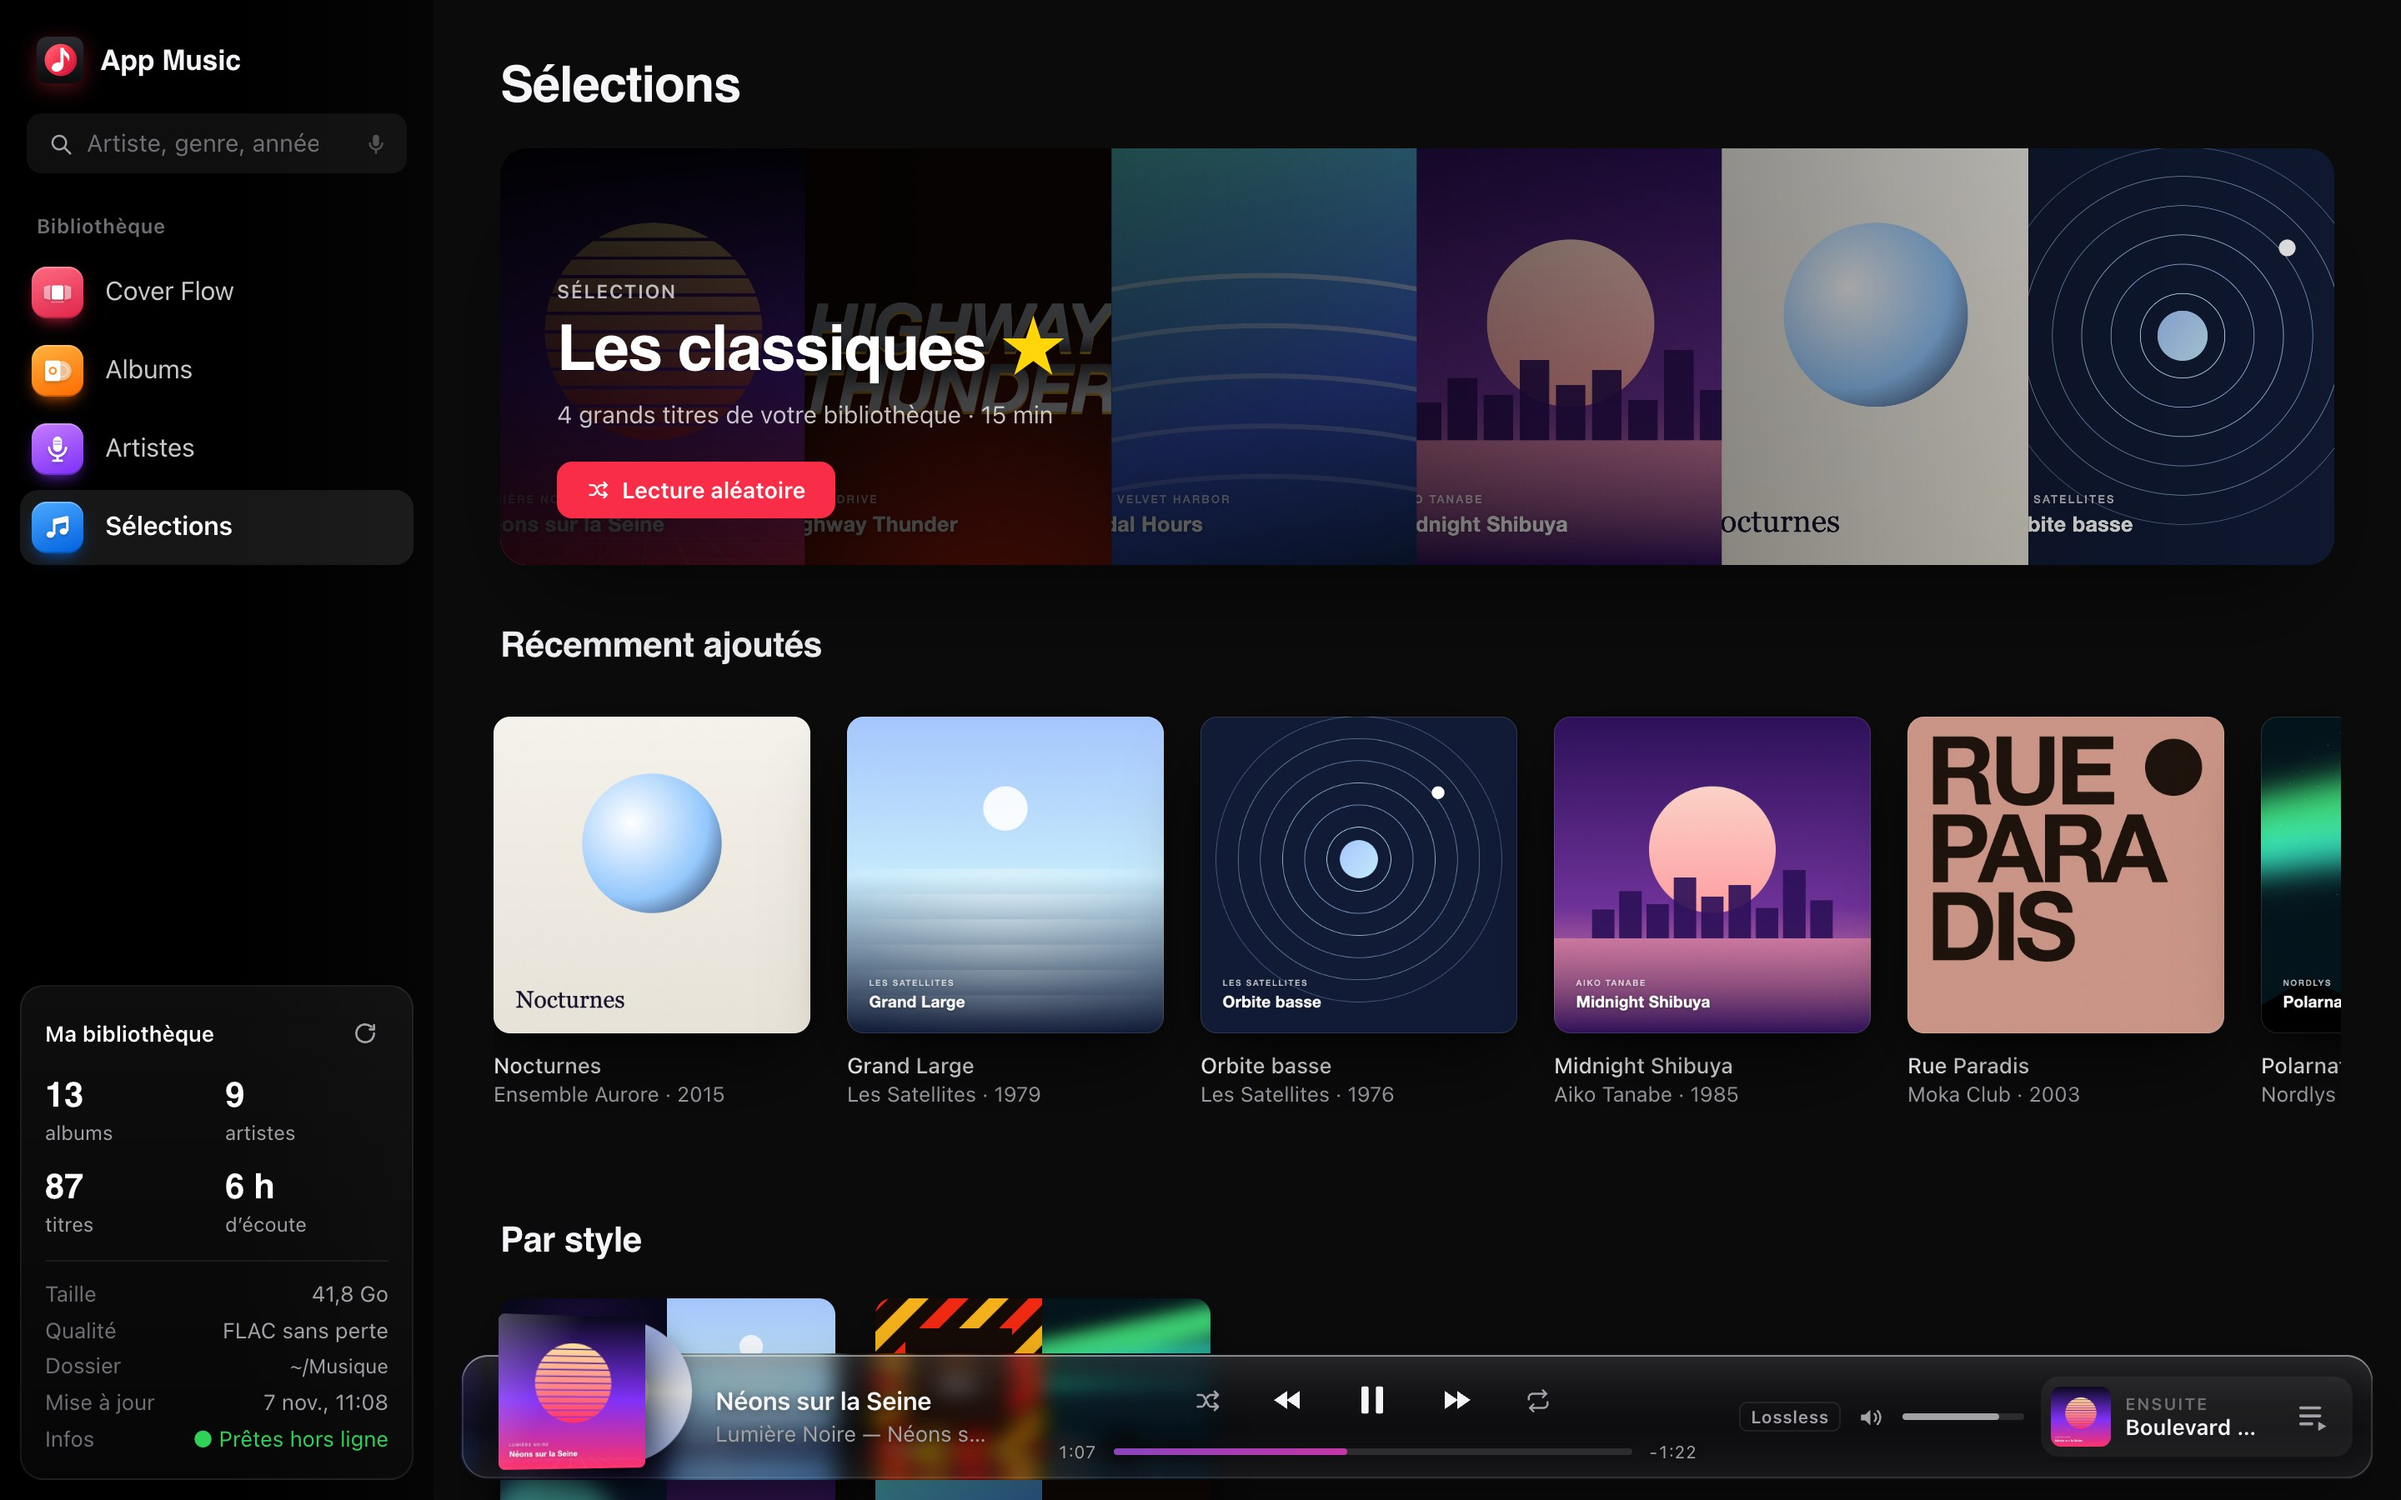
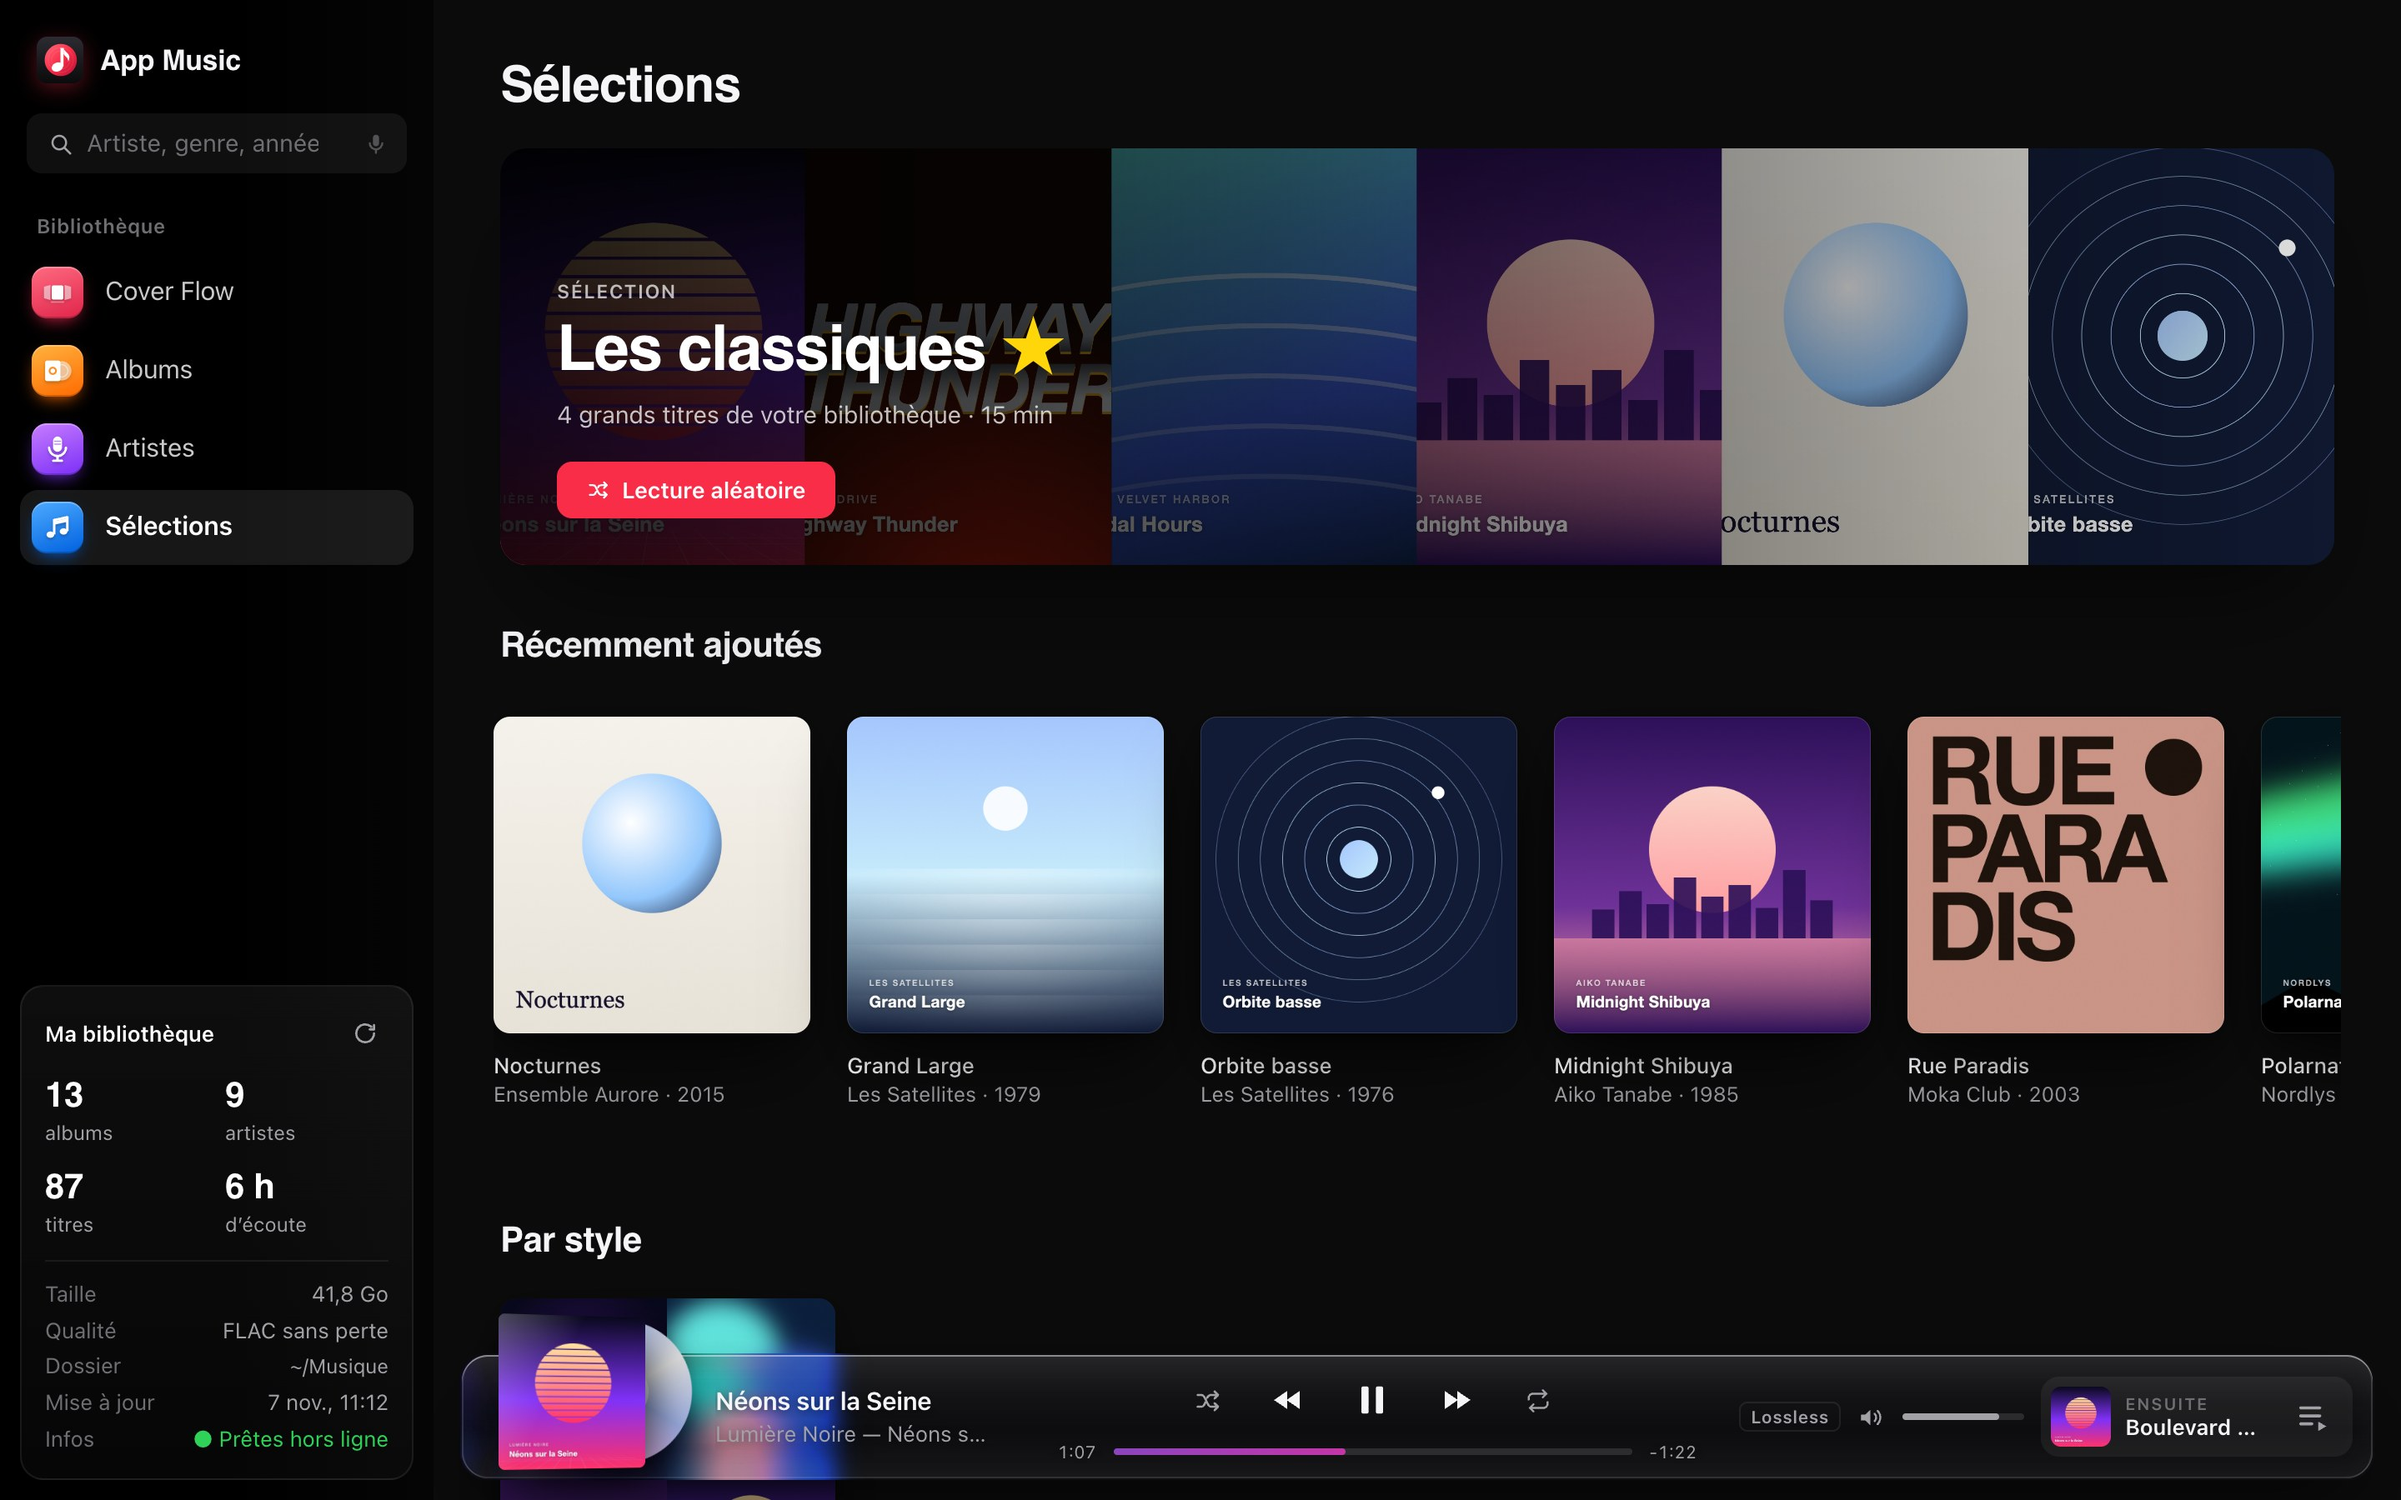
Sélections par style : chaque album rangé dans son style principal (« blues rock » n'est plus du blues, Placebo n'est plus du jazz)

Changed region(s): [[0.1875, 0.84, 0.5312, 1.0]]

diff --git a/public/mixes.js b/public/mixes.js
@@ -1,23 +1,49 @@
 // Sélections : les classiques ★, et des playlists toutes prêtes par style et par décennie.
 // Module sans dépendance au navigateur (testé dans tests/mixes.test.js).
 
-// Familles de styles : repérées dans les genres de l'album (tag, MusicBrainz, Deezer) et les principales étiquettes de l'artiste.
+// Familles de styles (ordre d'affichage). Chaque album est rangé dans son style principal (et un second s'il pèse
+// presque autant) : on ne se contente plus d'un mot trouvé dans une étiquette (« blues rock » n'est pas du blues).
 export const MIX_STYLES = [
-  ['rock', 'Rock', /\b(rock|grunge|garage|indie|alternati\w*|britpop|post punk)\b/],
-  ['hard-rock', 'Hard rock', /\b(hard rock|glam|arena rock|aor)\b/],
-  ['metal', 'Metal', /\b(metal\w*|nwobhm|harte|djent|thrash|doom|grindcore)\b/],
-  ['punk', 'Punk', /\bpunk\b/],
-  ['pop', 'Pop', /\b(pop|variete\w*|dance|synth pop|synthpop|new wave)\b/, /\b(pop (rock|punk|rap|metal)|(folk|power) pop)\b/g],
-  ['rap', 'Rap & hip-hop', /\b(rap|hip hop|hiphop|trap|grime)\b/],
-  ['chanson', 'Chanson française', /\bchanson\b/],
-  ['soul', 'Soul, funk & R&B', /\b(soul|funk|r b|rnb|rhythm and blues|motown|disco)\b/],
-  ['blues', 'Blues', /\bblues\b/],
-  ['jazz', 'Jazz', /\b(jazz|swing|bebop|bossa nova)\b/],
-  ['electro', 'Électro', /\b(electro\w*|house|techno|trance|edm|ambient|downtempo|trip hop)\b/],
-  ['folk', 'Folk & acoustique', /\b(folk|acoustic|celtic|singer songwriter|country|americana)\b/],
-  ['classique', 'Classique & musiques de film', /\b(classical|classique|orchestral|opera|soundtrack|score|films?|games|epic|baroque|piano)\b/],
-  ['reggae', 'Reggae', /\b(reggae|ska|dub|dancehall)\b/],
+  ['rock', 'Rock'], ['hard-rock', 'Hard rock'], ['metal', 'Metal'], ['punk', 'Punk'], ['pop', 'Pop'], ['rap', 'Rap & hip-hop'],
+  ['chanson', 'Chanson française'], ['soul', 'Soul, funk & R&B'], ['blues', 'Blues'], ['jazz', 'Jazz'], ['electro', 'Électro'],
+  ['folk', 'Folk & acoustique'], ['classique', 'Classique & musiques de film'], ['reggae', 'Reggae'],
 ];
+// étiquettes composées reconnues telles quelles (avant la règle du dernier mot)
+const WHOLE = [
+  [/\b(hip hop|hiphop|g funk)\b/, 'rap'], [/\btrip hop\b/, 'electro'], [/\b(r b|rnb|rhythm and blues)\b/, 'soul'],
+  [/\b(hard rock|arena rock|glam( rock| metal)?|aor)\b/, 'hard-rock'], [/\brock opera\b/, 'rock'], [/\bfolk pop\b/, 'folk'], [/\bpower pop\b/, 'rock'],
+  [/\b(chanson|variete francaise)\b/, 'chanson'], [/\b(singer songwriter|bossa nova)\b/, (t) => (/bossa/.test(t) ? 'jazz' : 'folk')],
+  [/\b(soundtrack|score|films?|games|trailer|production music|musique de film)\b/, 'classique'], [/\bnew wave\b/, 'pop'], [/\bneue deutsche harte\b/, 'metal'],
+];
+// sinon le dernier mot connu décide : « blues rock » → rock, « funk metal » → metal, « pop soul » → soul, « dance pop » → pop
+const WORD = {
+  rock: 'rock', grunge: 'rock', garage: 'rock', indie: 'rock', alternative: 'rock', britpop: 'rock', psychedelic: 'rock',
+  metal: 'metal', metalcore: 'metal', thrash: 'metal', doom: 'metal', djent: 'metal', grindcore: 'metal', nwobhm: 'metal',
+  punk: 'punk', pop: 'pop', synthpop: 'pop', electropop: 'pop', variete: 'pop', latin: 'pop',
+  rap: 'rap', trap: 'rap', grime: 'rap', soul: 'soul', funk: 'soul', motown: 'soul', disco: 'soul',
+  blues: 'blues', jazz: 'jazz', swing: 'jazz', bebop: 'jazz',
+  electro: 'electro', electronic: 'electro', electronica: 'electro', house: 'electro', techno: 'electro', trance: 'electro', edm: 'electro',
+  ambient: 'electro', downtempo: 'electro', dubstep: 'electro', breakbeat: 'electro', dance: 'electro',
+  folk: 'folk', acoustic: 'folk', celtic: 'folk', country: 'folk', americana: 'folk',
+  classical: 'classique', classique: 'classique', orchestral: 'classique', opera: 'classique', baroque: 'classique', piano: 'classique', epic: 'classique',
+  reggae: 'reggae', ska: 'reggae', dub: 'reggae', dancehall: 'reggae',
+};
+export function tagFamily(tag) {
+  const t = ' ' + normTxt(tag).trim() + ' ';
+  for (const [re, f] of WHOLE) if (re.test(t)) return typeof f === 'function' ? f(t) : f;
+  const words = t.trim().split(' ');
+  for (let i = words.length - 1; i >= 0; i--) if (WORD[words[i]]) return WORD[words[i]];
+  return null;
+}
+// poids des styles d'un album : genre du tag (le plus fiable), genres trouvés en ligne, étiquettes de l'artiste ; les premiers comptent plus
+function albumScores(a, artistTags) {
+  const sc = new Map();
+  const addTag = (tag, w) => { const f = tagFamily(tag); if (!f) return; sc.set(f, (sc.get(f) || 0) + w); if (f === 'hard-rock') sc.set('rock', (sc.get('rock') || 0) + w * 0.6); };
+  String(a.genre || '').split(/[,;/]/).map((x) => x.trim()).filter((x) => x && !/^\d+$/.test(x)).forEach((g, i) => addTag(g, 3 / (i + 1)));
+  (a.genres || []).slice(0, 5).forEach((g, i) => addTag(g, [2, 1.5, 1, 0.7, 0.5][i]));
+  (artistTags || []).slice(0, 3).forEach((g, i) => addTag(g, [2, 1.3, 1][i]));
+  return sc;
+}
 const normTxt = (x) => String(x ?? '').toLowerCase().normalize('NFD').replace(/[\u0300-\u036f]/g, '').replace(/[^a-z0-9]+/g, ' ');
 export const yearOf = (a) => a.year || (a.firstRelease ? +a.firstRelease.slice(0, 4) : null);
 export const byArtistYear = (a, b) => a.artist.localeCompare(b.artist, 'fr') || (yearOf(a) || 0) - (yearOf(b) || 0);
@@ -35,10 +61,19 @@ export function buildMixes(LIB) {
   add('classiques', 'Les classiques', 'classics', 'Les titres les plus célèbres de votre bibliothèque, du plus connu au moins connu.', hitAlbums, hits.map((t) => t.id));
   // par style : au moins 2 albums et 20 titres
   const R2 = new Map(LIB.artists.map((a) => [a.id, a]));
-  const text = new Map(LIB.albums.map((a) => [a.id, ' ' + normTxt([a.genre, ...(a.genres || []), ...(R2.get(a.artistId)?.tags || []).slice(0, 3)].join(' ')) + ' ']));
-  for (const [key, title, re, not] of MIX_STYLES) {
-    // « not » : étiquettes composées qui ne comptent pas pour ce style (« pop rock » n'est pas de la pop)
-    const albums = LIB.albums.filter((a) => re.test(not ? text.get(a.id).replace(not, ' ') : text.get(a.id))).sort(byArtistYear);
+  const own = new Map(LIB.albums.map((a) => [a.id, albumScores(a, R2.get(a.artistId)?.tags)]));
+  const fams = new Map();
+  for (const a of LIB.albums) {
+    // les autres albums de l'artiste corrigent une étiquette isolée et fausse (un album de rock étiqueté « jazz »)
+    const sc = new Map(own.get(a.id));
+    for (const b of LIB.albums) if (b !== a && b.artistId === a.artistId) for (const [f, w] of own.get(b.id)) sc.set(f, (sc.get(f) || 0) + w * 0.5);
+    const top = Math.max(0, ...sc.values());
+    const keep = new Set([...sc].filter(([, w]) => top > 0 && w >= top * 0.5).map(([f]) => f));
+    // la chanson française prime : Renaud reste dans « Chanson française », pas aussi dans Pop et Rock
+    fams.set(a.id, keep.has('chanson') ? new Set(['chanson']) : keep);
+  }
+  for (const [key, title] of MIX_STYLES) {
+    const albums = LIB.albums.filter((a) => fams.get(a.id).has(key)).sort(byArtistYear);
     const ids = albums.flatMap((a) => a.tracks);
     if (albums.length >= 2 && ids.length >= 20) add(key, title, 'style', `Tous les albums ${title.toLowerCase().startsWith('chanson') ? 'de chanson française' : `« ${title} »`} de votre bibliothèque.`, albums, ids);
   }

diff --git a/tests/mixes.test.js b/tests/mixes.test.js
@@ -86,3 +86,42 @@ test('bannière des classiques : toujours 6 pochettes, complétées par d’autr
   assert.equal(c.cover.length, 6);
   assert.equal(c.cover[0].id, 'hit', 'l’album du classique en premier');
 });
+
+test('style principal : le dernier mot d’une étiquette décide (« blues rock » est du rock)', () => {
+  const twelve = (id, artist, genres, artistTags = []) => [id, artist, 1990, null, 12, { genres, artistTags }];
+  const m = buildMixes(library([
+    twelve('b1', 'Bluesman', ['blues', 'electric blues']), twelve('b2', 'Bluesette', ['blues']),
+    twelve('br', 'Rockeur', ['blues rock', 'hard rock', 'rock']), // pas du blues
+    twelve('fm', 'Fusion', ['funk metal', 'rap metal']), // pas de la soul
+    twelve('ro', 'Opéra', ['rock opera']), // pas du classique
+    twelve('c1', 'Orchestre', ['classical', 'orchestral']), twelve('c2', 'Bande originale', ['soundtrack']),
+    twelve('ep', 'Chanteuse', ['electropop', 'dance-pop']), twelve('p2', 'Chanteur', ['pop']), // de la pop, pas de l'électro
+    twelve('e1', 'DJ', ['house', 'edm']), twelve('e2', 'Ambiance', ['downtempo', 'trip hop']),
+  ]));
+  const ids = (k) => m.get(k)?.albums.map((a) => a.id).sort() ?? [];
+  assert.deepEqual(ids('blues'), ['b1', 'b2']);
+  assert.ok(!ids('soul').includes('fm'));
+  assert.deepEqual(ids('classique'), ['c1', 'c2']);
+  assert.deepEqual(ids('electro'), ['e1', 'e2']);
+  assert.deepEqual(ids('pop'), ['ep', 'p2']);
+});
+
+test('une étiquette isolée et fausse est corrigée par les autres albums de l’artiste', () => {
+  const m = buildMixes(library([
+    ['x1', 'Groupe', 1996, null, 12, { genres: ['jazz'] }], // mal étiqueté
+    ['x2', 'Groupe', 2000, 'Rock', 12, { genres: ['alternative rock', 'rock'] }], ['x3', 'Groupe', 2003, 'Rock', 12, { genres: ['alternative rock'] }],
+    ['j1', 'Trio', 1960, 'Jazz', 12, { genres: ['jazz', 'bebop'] }],
+  ]));
+  assert.ok(!m.has('jazz'), 'un seul vrai album de jazz : pas de playlist « Jazz »');
+  assert.deepEqual(m.get('rock').albums.map((a) => a.id), ['x1', 'x2', 'x3']);
+});
+
+test('chanson française : l’album y reste seul, pas aussi dans Pop et Rock', () => {
+  const m = buildMixes(library([
+    ['f1', 'Chanteur', 1980, 'Pop', 12, { genres: ['pop', 'rock'], artistTags: ['french', 'chanson française'] }],
+    ['f2', 'Chanteur', 1983, 'Chanson', 12, { genres: ['chanson française', 'rock'], artistTags: ['french', 'chanson française'] }],
+    ['p1', 'Popstar', 1990, 'Pop', 12], ['p2', 'Idole', 1991, 'Pop', 12], ['r1', 'Rockband', 1992, 'Rock', 12], ['r2', 'Garage', 1993, 'Rock', 12],
+  ]));
+  assert.deepEqual(m.get('chanson').albums.map((a) => a.id), ['f1', 'f2']);
+  assert.ok(!m.get('pop').albums.some((a) => a.artist === 'Chanteur') && !m.get('rock').albums.some((a) => a.artist === 'Chanteur'));
+});
